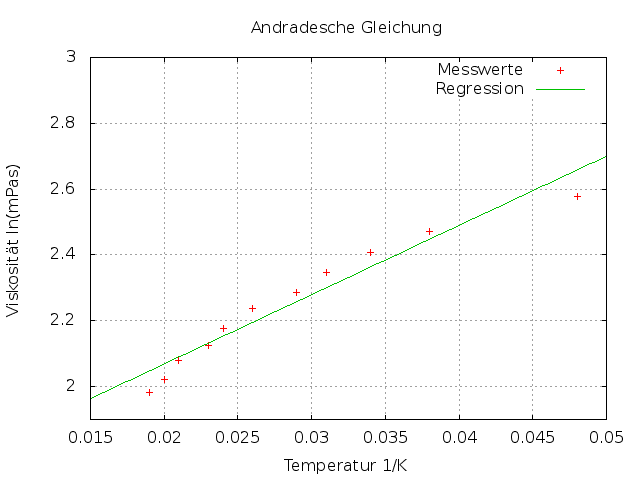
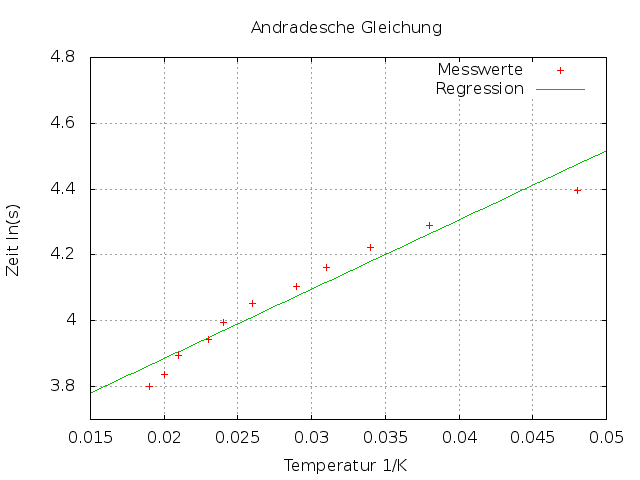
modified:   8.107/107 protokoll.tex 	modified:   8.107/pics/Andrade.png 	new file:   8.107/pics/Viskos.png

diff --git a/8.107/107 protokoll.tex b/8.107/107 protokoll.tex
@@ -171,13 +171,13 @@ $K_{gr}$ sind neben der errechneten Viskosität die Dichte $\rho_{gr}$ aus gemes
  \begin{tabular}{l|l|l}
  Größe & Wert & Fehler\\
  \hline
-  $d_{kl}$ & 1,37 mm & 0,02 mm\footnote[1]{von Schieblehre angegebener Fehler}\\
+  $d_{kl}$ & 1,37 mm & 0,02 mm\footnote[2]{von Schieblehre angegebener Fehler}\\
   $d_{gr}$ & 1,38 mm & 0,02 mm\\
   $m_{kl}$ & 4,4531 g & - \\
-  $m_{gr}$ & 5,0 g & 0,1 g\footnote[2]{kleinste Größenordnung der Messung durch Waage}\\
+  $m_{gr}$ & 5,0 g & 0,1 g\footnote[3]{kleinste Größenordnung der Messung durch Waage}\\
   $\rho_{kl}$ & 13,556 $\frac{\text{g}}{\text{cm$^3$}}$& 0,048 $\frac{\text{g}}{\text{cm$^3$}}$ \\
   $\rho_{gr}$ & 15,220 $\frac{\text{g}}{\text{cm$^3$}}$& 0,111 $\frac{\text{g}}{\text{cm$^3$}}$ \\
-  $\rho_{Fl}$ & 0,998 $\frac{\text{g}}{\text{cm$^3$}}$\footnote[3]{Wasser.de (2010), Dichtetabelle von Wasser bei verschiedenen Temperaturen URL: \href{http://www.wasser.de/aktuell/forum/index.pl?job=thema&tnr=100000000001135}{www.wasser.de/aktuell/forum} } & -\\
+  $\rho_{Fl}$ & 0,998 $\frac{\text{g}}{\text{cm$^3$}}$\footnote[4]{Wasser.de (2010), Dichtetabelle von Wasser bei verschiedenen Temperaturen URL: \href{http://www.wasser.de/aktuell/forum/index.pl?job=thema&tnr=100000000001135}{www.wasser.de/aktuell/forum} } & -\\
   $K_{kl}$ & 0,07640 $\frac{\text{mPa}\cdot\text{cm}^3}{\text{g}}$ & -
  \end{tabular}
 \caption{relevante Kenngrößen}
@@ -256,6 +256,18 @@ Zurücktransferiert erhält man wieder A und B zu
  A = c \cdot \e^b = 5,193 \pm 0,05\\
  B = a = 21,048 \pm 1,72
 \end{align}
+
+\begin{figure}[H]
+\includegraphics[width=0.7\textwidth] {pics/Andrade.png}
+\centering
+\caption{lineare Abhängigkeit von $\frac1T$ und ln(t)}
+\end{figure}
+
+\begin{figure}[H]
+\includegraphics[width=0.7\textwidth] {pics/Viskos.png}
+\centering
+\caption{endgültige Andrade-Gleichung}
+\end{figure}
 
 
 
